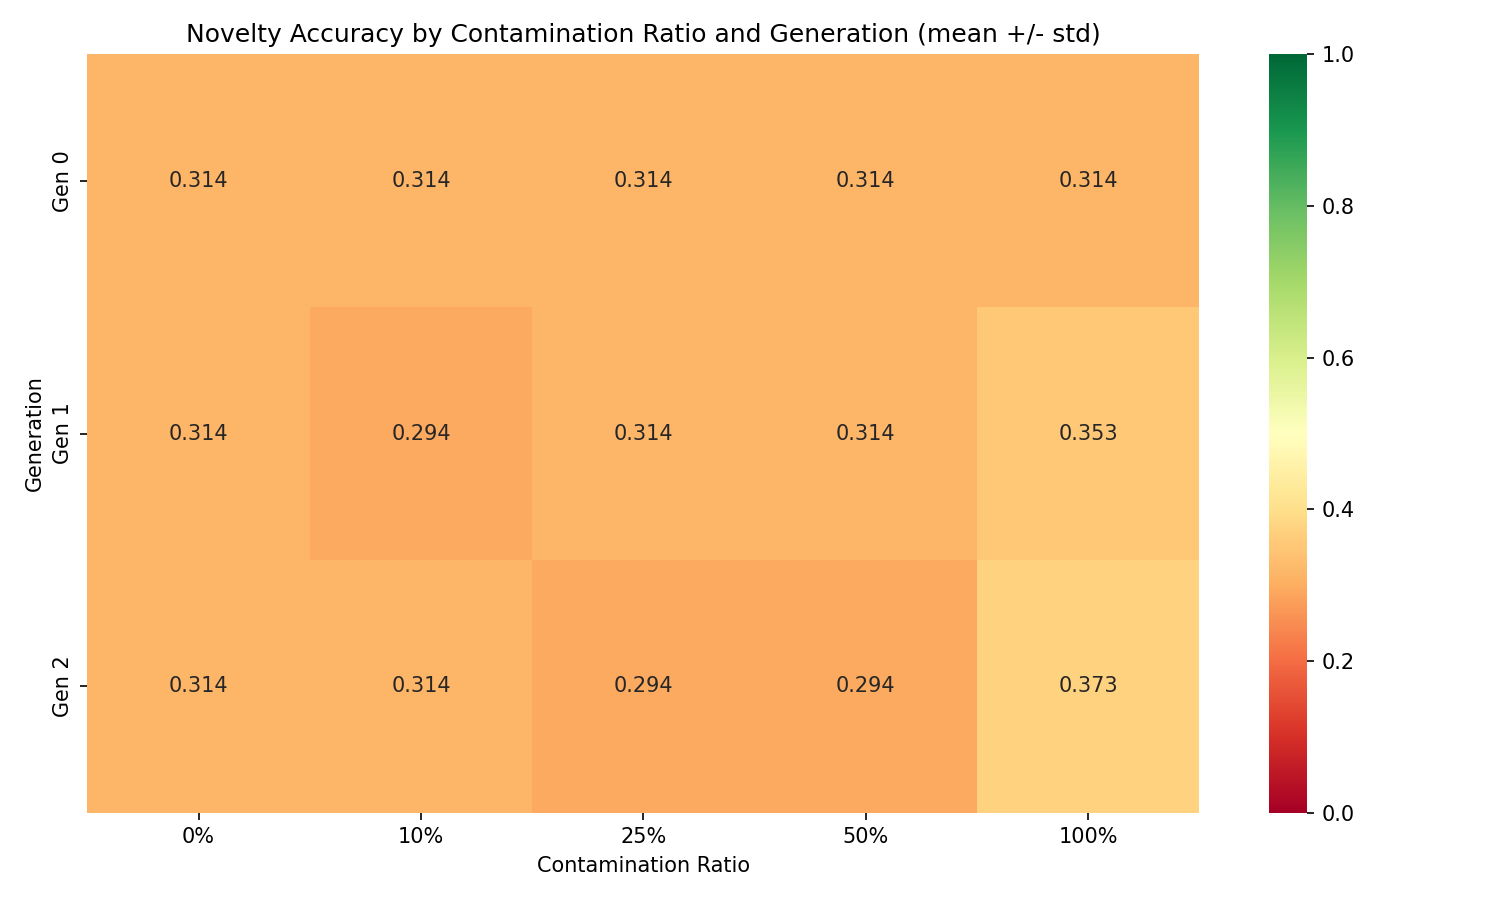
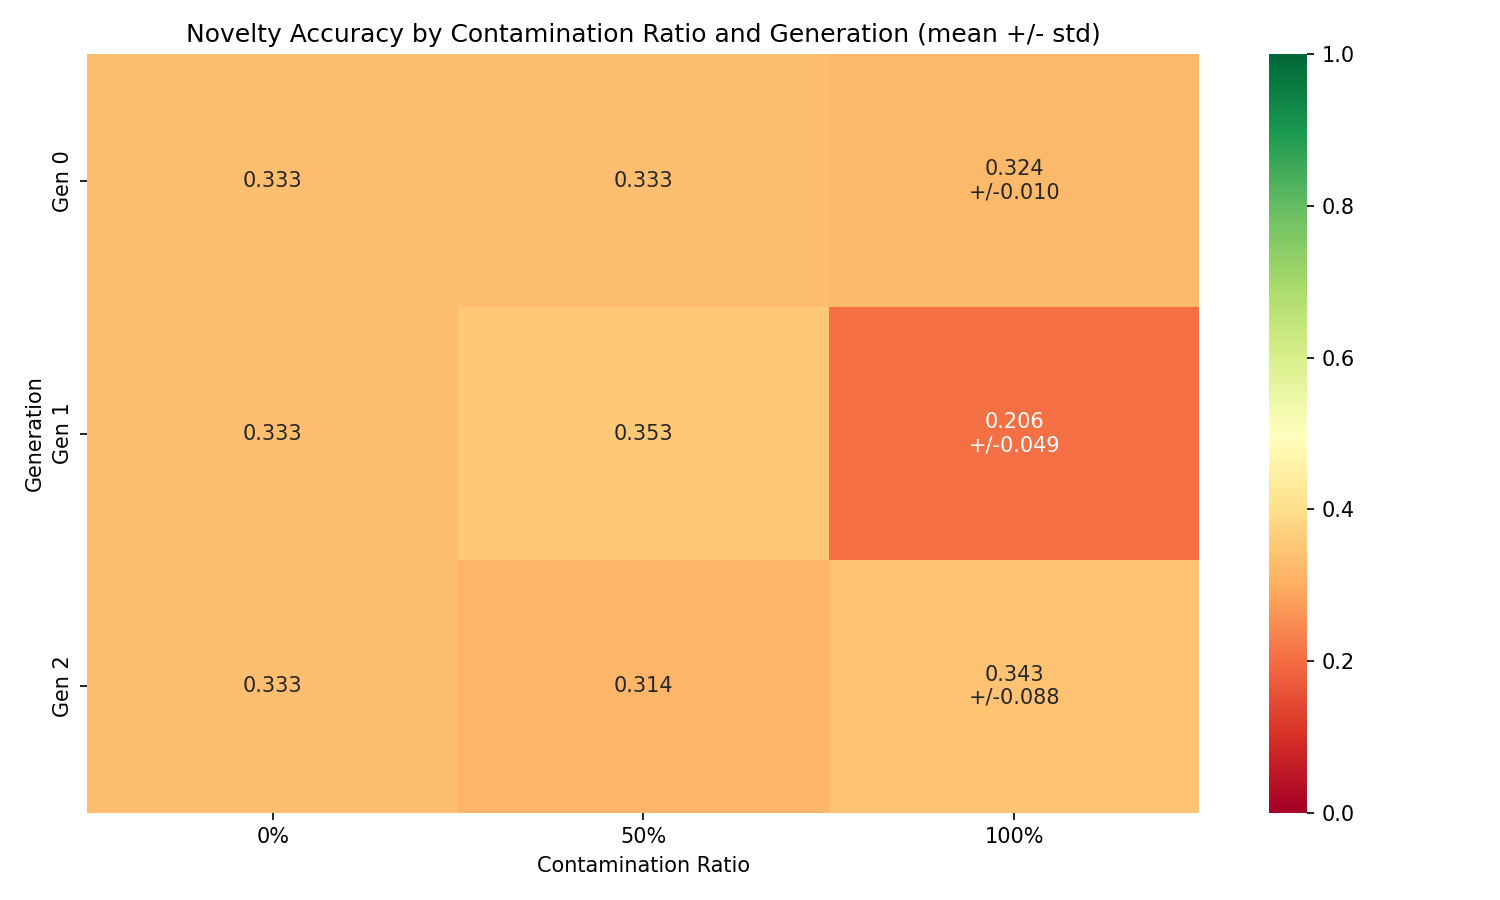
V4 experiment complete: deeper fine-tuning breaks pretrained buffer
5000-step fine-tuning (10x v2) at 100% contamination with LR=1e-4 produces
monotonic novel-text comprehension degradation: -7.79 → -9.01 → -9.95 nats
over 2 generations. 50% contamination at LR=5e-5 also shows small but real
degradation (-7.90 → -7.97), absent in v2.

Added v4-specific analysis plots separating primary (LR=5e-5) from aggressive
(LR=1e-4) configs, and KB entry documenting findings including the degenerate
collapse artifact at LR=5e-5/100%.

diff --git a/analyze.py b/analyze.py
@@ -317,6 +317,102 @@ def plot_decomposed_critical(results, output_dir):
     print("Saved decomposed_critical.png")
 
 
+def plot_v4_lr_comparison(results, output_dir):
+    """V4-specific: compare primary vs aggressive LR on the 100% arm."""
+    has_config = any("v4_config" in r for r in results)
+    if not has_config:
+        return
+
+    primary = [r for r in results if r.get("v4_config") == "primary" and r["ratio"] == 1.0]
+    aggressive = [r for r in results if r.get("v4_config") == "aggressive_lr" and r["ratio"] == 1.0]
+    if not primary or not aggressive:
+        return
+
+    gens = sorted(set(r["generation"] for r in primary))
+
+    fig, axes = plt.subplots(1, 3, figsize=(16, 5))
+
+    # Panel 1: Novel LP (critical span)
+    ax = axes[0]
+    for data, label, color, marker in [(primary, "LR=5e-5", "tab:blue", "o"), (aggressive, "LR=1e-4", "tab:red", "s")]:
+        vals = [np.mean([r["logprob_novel_critical"] for r in data if r["generation"] == g]) for g in gens]
+        ax.plot(gens, vals, f"{marker}-", color=color, label=label, linewidth=2)
+    ax.set_xlabel("Generation")
+    ax.set_ylabel("Mean Log-Prob")
+    ax.set_title("Novel Text Log-Prob\n(Critical Span)")
+    ax.legend()
+
+    # Panel 2: Critical-span gap
+    ax = axes[1]
+    for data, label, color, marker in [(primary, "LR=5e-5", "tab:blue", "o"), (aggressive, "LR=1e-4", "tab:red", "s")]:
+        vals = [np.mean([r["logprob_gap_critical"] for r in data if r["generation"] == g]) for g in gens]
+        ax.plot(gens, vals, f"{marker}-", color=color, label=label, linewidth=2)
+    ax.set_xlabel("Generation")
+    ax.set_ylabel("Log-Prob Gap (Critical Span)")
+    ax.set_title("Critical-Span Gap\n(higher = worse at novel text)")
+    ax.legend()
+
+    # Panel 3: Standard LP
+    ax = axes[2]
+    for data, label, color, marker in [(primary, "LR=5e-5", "tab:blue", "o"), (aggressive, "LR=1e-4", "tab:red", "s")]:
+        vals = [np.mean([r["logprob_standard"] for r in data if r["generation"] == g]) for g in gens]
+        ax.plot(gens, vals, f"{marker}-", color=color, label=label, linewidth=2)
+    ax.set_xlabel("Generation")
+    ax.set_ylabel("Mean Log-Prob")
+    ax.set_title("Standard Text Log-Prob")
+    ax.legend()
+
+    fig.suptitle("V4: Primary vs Aggressive LR at 100% Contamination", y=1.02, fontsize=14)
+    fig.tight_layout()
+    fig.savefig(os.path.join(output_dir, "v4_lr_comparison.png"), dpi=150, bbox_inches="tight")
+    plt.close(fig)
+    print("Saved v4_lr_comparison.png")
+
+
+def plot_v4_decomposed_by_config(results, output_dir):
+    """V4-specific: decomposed log-probs with each config shown separately."""
+    has_config = any("v4_config" in r for r in results)
+    if not has_config:
+        return
+
+    configs = sorted(set(r.get("v4_config", "unknown") for r in results))
+
+    fig, axes = plt.subplots(len(configs), 2, figsize=(14, 6 * len(configs)), squeeze=False)
+
+    for row, cfg in enumerate(configs):
+        cfg_results = [r for r in results if r.get("v4_config") == cfg]
+        ratios = sorted(set(r["ratio"] for r in cfg_results))
+        gens = sorted(set(r["generation"] for r in cfg_results))
+        colors = plt.cm.viridis(np.linspace(0, 1, len(ratios)))
+
+        lr = cfg_results[0].get("v4_learning_rate", "?")
+
+        for ratio, color in zip(ratios, colors):
+            means_std, means_novel = [], []
+            for gen in gens:
+                group = [r for r in cfg_results if r["ratio"] == ratio and r["generation"] == gen]
+                means_std.append(np.mean([r["logprob_standard"] for r in group]))
+                means_novel.append(np.mean([r["logprob_novel_critical"] for r in group]))
+            axes[row, 0].plot(gens, means_std, "o-", color=color, label=f"{ratio:.0%}", linewidth=2)
+            axes[row, 1].plot(gens, means_novel, "o-", color=color, label=f"{ratio:.0%}", linewidth=2)
+
+        axes[row, 0].set_xlabel("Generation")
+        axes[row, 0].set_ylabel("Mean Log-Prob")
+        axes[row, 0].set_title(f"Standard Text — {cfg} (LR={lr})")
+        axes[row, 0].legend(title="Contamination")
+
+        axes[row, 1].set_xlabel("Generation")
+        axes[row, 1].set_ylabel("Mean Log-Prob")
+        axes[row, 1].set_title(f"Novel Text (Critical Span) — {cfg} (LR={lr})")
+        axes[row, 1].legend(title="Contamination")
+
+    fig.suptitle("V4: Decomposed Log-Probs by Config", y=1.01, fontsize=14)
+    fig.tight_layout()
+    fig.savefig(os.path.join(output_dir, "v4_decomposed_by_config.png"), dpi=150, bbox_inches="tight")
+    plt.close(fig)
+    print("Saved v4_decomposed_by_config.png")
+
+
 def print_summary_table(results):
     """Print a summary table with means across seeds."""
     has_v3 = any("logprob_gap_critical" in r for r in results)
@@ -425,6 +521,12 @@ def main():
         plot_logprob_gap_critical(results, config.PLOT_DIR)
         plot_gap_comparison(results, config.PLOT_DIR)
         plot_decomposed_critical(results, config.PLOT_DIR)
+
+    # V4-specific plots
+    has_v4 = any("v4_config" in r for r in results)
+    if has_v4:
+        plot_v4_lr_comparison(results, config.PLOT_DIR)
+        plot_v4_decomposed_by_config(results, config.PLOT_DIR)
 
     print(f"\nAll plots saved to: {config.PLOT_DIR}")
 

diff --git a/kb/v4_experiment_findings.md b/kb/v4_experiment_findings.md
@@ -1,0 +1,92 @@
+# V4 Experiment Findings
+
+## Motivation
+V2/V3 showed that 500 steps of fine-tuning couldn't degrade novel-text comprehension at moderate contamination — GPT-2's pretrained representations (40GB WebText) acted as a buffer. V4 stress-tests whether 10x deeper fine-tuning (5000 steps) can break through that buffer.
+
+## Setup
+- Same model (GPT-2 124M), same data (WikiText-103), same benchmark (51 items with critical spans)
+- **5000 training steps** (10x v2's 500)
+- Contamination ratios: 0%, 50%, 100% (dropped 10% and 25% for tractability)
+- 3 generations per arm, single seed
+- Two LR configs:
+  - **Primary:** LR=5e-5 (same as v2) for all ratios
+  - **Aggressive:** LR=1e-4 (2x v2) for 100% only
+- Evaluated with both full-sentence and critical-span log-prob gap
+- Total runtime: ~37 hours on MPS
+
+## Results
+
+### Primary Config (LR=5e-5)
+
+#### 50% Contamination — Novel-Text Comprehension Now Degrades (Slightly)
+
+| | Gen 0 | Gen 1 | Gen 2 |
+|---|---|---|---|
+| Novel LP (critical) | -7.896 | -7.919 | -7.970 |
+| Standard LP | -6.728 | -6.438 | -6.456 |
+| Gap (critical) | 1.168 | 1.481 | 1.514 |
+| D-1 | 0.405 | 0.144 | 0.080 |
+
+Novel-text log-prob now moves: -7.90 → -7.97 over 2 generations. Small but consistent, and completely absent in v2 (where it was flat at -6.91). The gap widening is still mostly driven by the standard side, but the novel side is no longer immune.
+
+#### 100% Contamination — Degenerate Collapse at Gen 2
+
+| | Gen 0 | Gen 1 | Gen 2 |
+|---|---|---|---|
+| Novel LP (critical) | -7.896 | **-9.320** | **-6.128** |
+| Standard LP | -6.728 | -5.733 | -4.649 |
+| Gap (critical) | 1.168 | 3.587 | 1.480 |
+| Val PPL | 175.5 | 788.7 | 1412.8 |
+| D-1 | 0.404 | 0.123 | 0.085 |
+
+Gen 1 shows massive novel-text degradation (-9.32). But Gen 2 "recovers" to -6.13 — this is NOT real recovery. The model has collapsed so completely (PPL 1413) that it assigns high probability to everything uniformly. Standard LP also shoots to -4.65, confirming total loss of discrimination. The gap narrows because both metrics converge toward meaninglessness.
+
+### Aggressive LR Config (LR=1e-4, 100% only)
+
+**This is the key result.**
+
+| | Gen 0 | Gen 1 | Gen 2 |
+|---|---|---|---|
+| Novel LP (critical) | -7.789 | **-9.007** | **-9.954** |
+| Standard LP | -6.636 | -5.713 | -6.317 |
+| Gap (critical) | 1.153 | 3.294 | **3.636** |
+| Val PPL | 179.7 | 771.6 | 1531.0 |
+| D-1 | 0.384 | 0.118 | 0.054 |
+| Novelty accuracy | 0.333 | 0.176 | **0.255** |
+
+**Novel-text comprehension degrades monotonically:** -7.79 → -9.01 → -9.95 (2.17 nats decline over 2 generations). Meanwhile standard LP partially recovers at Gen 2 (-5.71 → -6.32), so the gap keeps widening (3.29 → 3.64). The aggressive LR avoids the degenerate collapse that the primary config hit — the model is degraded but not completely meaningless.
+
+## Key Findings
+
+### 1. Deeper training breaks through the pretrained buffer
+At 500 steps (v2), novel-text log-probs were flat at moderate contamination. At 5000 steps (v4), they move. The pretrained representations are not permanently protected — they just need more training pressure to overwrite.
+
+### 2. Learning rate matters more than expected
+At 100% contamination with LR=5e-5, the model hits degenerate collapse at Gen 2 (loses all discrimination). At LR=1e-4, it degrades monotonically without collapsing. The higher LR apparently pushes the model into a different loss basin where it adapts to contaminated data more aggressively but retains enough structure to remain a functioning (if degraded) language model.
+
+### 3. The degenerate collapse artifact
+When a model's PPL exceeds ~1400, its log-prob scores become unreliable — the model assigns uniformly high probability to everything, making novel text appear "easy" again. This is an important methodological caveat: apparent recovery in log-prob metrics at extreme contamination can actually indicate total model failure.
+
+### 4. 50% contamination now shows a signal
+The novel critical-span LP declined from -7.90 to -7.97 over 2 generations at 50% contamination. This is 0.07 nats — small, but nonzero and monotonic. With more generations, this trend may become more pronounced. V2 showed zero movement at this contamination level.
+
+## Comparison: V2 vs V4
+
+| Condition | V2 Novel LP (crit) | V4 Novel LP (crit) | V2 Delta | V4 Delta |
+|---|---|---|---|---|
+| 50% Gen 2 | -6.861 | -7.970 | +0.045 (improved) | **-0.074** (degraded) |
+| 100% Gen 1 | -7.103 | -9.320 | -0.197 | **-1.424** |
+| 100% Gen 1 (agg LR) | — | -9.007 | — | **-1.218** |
+| 100% Gen 2 (agg LR) | — | -9.954 | — | **-2.165** |
+
+Deeper training amplifies the degradation signal by 7-10x at 100% contamination.
+
+## Implications
+
+1. **The original hypothesis is supported under sufficient training pressure.** Synthetic contamination does degrade novel-text comprehension — it just requires enough training for the contaminated distribution to overwrite pretrained representations.
+
+2. **There is a training depth threshold.** 500 steps is below it; 5000 steps is above it (at least for 100% contamination). The threshold for moderate contamination (50%) likely requires even more steps or generations.
+
+3. **The comprehension-generation asymmetry still holds at moderate contamination.** At 50%, generation diversity collapses dramatically (D-1: 0.40 → 0.08) while novel-text comprehension barely moves (-7.90 → -7.97). The asymmetry is real but not absolute — it's a matter of degree, not kind.
+
+4. **For a full paper:** Run the aggressive LR config across all contamination ratios (not just 100%) and extend to 5+ generations to map the dose-response curve for comprehension degradation.
